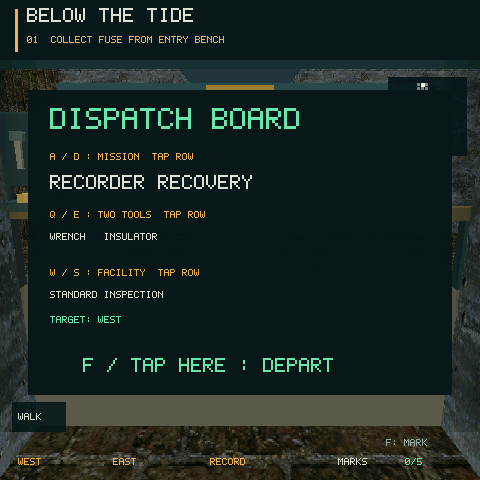
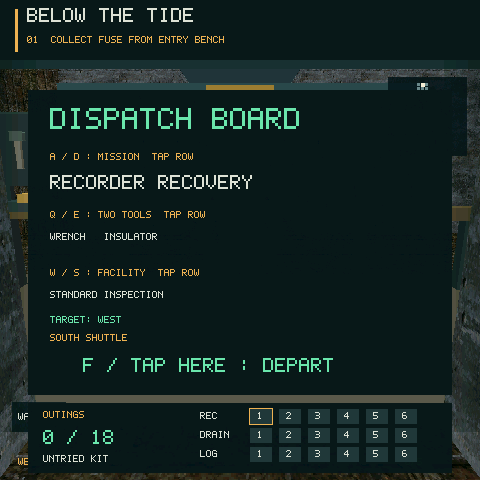
feat(sewer): track expedition progress and fair per-loadout records

Changed region(s): [[0.0312, 0.8125, 0.9688, 1.0], [0.1875, 0.6875, 0.25, 0.7188], [0.0938, 0.6875, 0.1562, 0.7188]]

diff --git a/examples/sewer_labyrinth/preview.html b/examples/sewer_labyrinth/preview.html
@@ -12,6 +12,7 @@ button:hover,button:focus-visible{border-color:#edbd64}#screen{display:block;wid
 <main><header><h1>潮线以下</h1><p>选择出勤目标和两件工具，探索泵站，完成工作后从北侧竖井撤离。</p></header>
 <div class="tools" id="dispatch"><button id="mission">更换任务</button><button id="kit">更换工具组合</button><button id="site">更换设施配置</button><button id="depart">出发</button></div>
 <p id="dispatchInfo"></p>
+<div id="outings" aria-label="本次会话出勤进度"></div>
 <p>新区域：02 号泵房。启动排水后，沿西侧黄色地面标线寻找退水露出的检修口；按住 Shift，或开启触屏 SNEAK，蹲身穿过。它通向日志凹室，也能绕过报警后的中央闸门。</p>
 <div class="tools"><button id="lure">投放诱饵（Space）</button><button id="journal">巡检笔记（J）</button></div>
 <section id="notebook" hidden style="white-space:pre-line;padding:14px;background:#1a3032;border-left:3px solid #e7bb69"></section>
@@ -81,7 +82,7 @@ function objective(m){
   if(m.phase==='playing'&&m.cell_x===6&&m.cell_z>=10&&m.cell_z<=11)
     return m.duct_open?'黄色标线通往低矮检修口。按住 Shift / 开启 SNEAK，穿过后向西寻找日志；洞内松键仍会保持蹲姿。':'前方检修口被水淹没。先启动中央泵，观察水位下降后露出的入口。';
   if(m.phase==='briefing')return '任务板：A/D 选任务，Q/E 选两件工具，W/S 换设施配置，F 出发。也可点击上方按钮。';
-  if(m.phase==='won')return '出勤完成！按 F 进入下一次任务板。本次会话保留完成次数、最快时间与探索徽章。';
+  if(m.phase==='won')return `出勤完成，用时 ${Math.floor(m.elapsed/30)} 秒。${m.new_best?'这是相同任务、设施、工具组合的新纪录！':''}按 F 接下一项出勤。`;
   if(m.ready)return '目标已完成，返回北侧入口竖井撤离；可继续寻找额外日志。';
   if(m.mission===2&&m.phase!=='lost')return !m.chart?'调查任务：先阅读西侧检修图，再前往深处寻找日志。':`调查任务：前往南侧${m.target_side?'东':'西'}凹室，按 F 读取日志。`;
   if(m.mission===1&&m.pumping&&m.water<=.02&&m.phase!=='lost')return `抢修任务：打开${m.target_side?'东':'西'}分流阀后返回入口。`;
@@ -117,7 +118,9 @@ async function tick(){
     const kits=['扳手＋绝缘工具','扳手＋诱饵','扳手＋电池','绝缘工具＋诱饵','绝缘工具＋电池','诱饵＋电池'];
     const sites=['标准巡检','西环关闭／西侧漏电','东环关闭／东侧漏电','西侧漏电','西环关闭／东侧漏电','东环关闭／西侧漏电'];
     const patrols=['南廊往返','内环巡检','停驻扫描'];
-    $('dispatchInfo').textContent=`${missions[meta.mission]} · ${kits[meta.kit]} · ${sites[meta.site]} · ${patrols[meta.patrol_mode]} · 目标${meta.target_side?'东':'西'}侧 ｜ 本任务完成 ${meta.completed} 次 · 最快 ${meta.best_ticks?Math.round(meta.best_ticks/30)+'秒':'—'} · 徽章：${meta.badges&2?'无警觉 ':''}${meta.badges&4?'额外日志':''}`;
+    $('dispatchInfo').textContent=`${missions[meta.mission]} · ${kits[meta.kit]} · ${sites[meta.site]} · ${patrols[meta.patrol_mode]} · 目标${meta.target_side?'东':'西'}侧 ｜ 当前组合完成 ${meta.run_wins} 次 · 最快 ${meta.best_ticks?Math.floor(meta.best_ticks/30)+'秒':'—'} · 徽章：${meta.badges&2?'无警觉 ':''}${meta.badges&4?'额外日志 ':''}${meta.badges&8?'检修近路':''}`;
+    const progress=missions.map((name,row)=>name+'：'+sites.map((_,site)=>(meta.outing_mask&(1<<(row*6+site)))?'●':'○').join(' '));
+    $('outings').textContent='出勤册 · 每行对应设施 1—6 · '+progress.join(' ｜ ');
     $('metrics').textContent=`Host 光栅：${meta.host_render_ms.toFixed(2)} ms（不是设备 FPS）\n几何面：${meta.faces} / 丢弃：${meta.faces_dropped}\n警戒：${Math.round(meta.alert*100)}% · 慢走：${meta.sneaking?'是':'否'}\n检查点：${meta.checkpoint?'已保存':'未到达'}`;
   }catch(error){$('error').textContent='连接暂时中断，将自动重试。'+error.message}finally{busy=false}
 }

diff --git a/examples/sewer_labyrinth/main/game_module.c b/examples/sewer_labyrinth/main/game_module.c
@@ -78,9 +78,14 @@ typedef struct {
     bool passage_used;
     bool journal,salvaged;
     uint8_t knowledge;
+    uint8_t completed_sites[SL_MISSIONS],personal_badges,run_badges;
+    uint16_t selected_wins;
+    uint32_t elapsed,best_ticks;
+    bool new_best;
 } sl_game_t;
 enum { SL_SILENT,SL_STEP,SL_CLICK,SL_POWER,SL_PUMP,SL_ALERT,SL_FAIL,SL_WIN,SL_CUES };
 static const char *const s_cues[SL_CUES]={"","step","click","power","pump","alert","fail","win"};
+typedef struct {uint32_t best_ticks;uint16_t wins;uint8_t badges;} sl_run_record_t;
 typedef struct {
     sl_game_t game;
     sl_game_t checkpoint;
@@ -88,8 +93,9 @@ typedef struct {
     bool left,right,forward,back,strafe_left,strafe_right,fire,fire_edge,sneak,touch_sneak,has_checkpoint;
     uint32_t consumed_sfx;
     uint16_t menu_down;
-    uint32_t completed[SL_MISSIONS],best_ticks[SL_MISSIONS];
-    uint8_t badges[SL_MISSIONS];
+    uint32_t completed[SL_MISSIONS],run_ticks;
+    uint8_t completed_sites[SL_MISSIONS];
+    sl_run_record_t records[SL_MISSIONS][SL_SITES][6];
     uint8_t learned;
 #if defined(MOSAICO_GAME_NATIVE) || defined(MOSAICO_GAME_ELF)
     Sound sounds[SL_CUES];
@@ -1452,11 +1458,15 @@ static void draw_hud(const sl_game_t *g)
         DrawText(TextFormat("%d%%",(int)(g->water*100)),34,90,12,mint);
     }
     if(g->escaped){
-        DrawRectangle(64,174,352,128,(Color){8,25,28,242});
+        DrawRectangle(64,174,352,160,(Color){8,25,28,242});
         DrawRectangle(64,174,352,3,mint);
-        DrawText("BACK ABOVE GROUND",94,207,23,mint);
-        DrawText(TextFormat("%lus / BONUS LOGS %u",(unsigned long)(g->tick/30),bonus_logs(g)),100,243,14,pale);
-        DrawText("F: NEXT DISPATCH",107,276,15,pale);
+        DrawText("BACK ABOVE GROUND",94,195,22,mint);
+        DrawText(TextFormat("%lus / BONUS LOGS %u",(unsigned long)(g->elapsed/30),bonus_logs(g)),100,230,14,pale);
+        DrawText(g->new_best?"PERSONAL BEST - THIS MISSION / SITE / KIT":"DISPATCH COMPLETE",82,254,10,amber);
+        DrawText(g->run_badges&2?"UNDETECTED": "CLEARED",95,274,11,mint);
+        if(g->run_badges&4)DrawText("EXTRA LOG",223,274,11,mint);
+        if(g->run_badges&8)DrawText("DUCT",334,274,11,mint);
+        DrawText("F: NEXT DISPATCH",107,307,15,pale);
     }
     if(g->failed){
         DrawRectangle(50,224,380,104,(Color){8,25,28,248});
@@ -1478,6 +1488,22 @@ static void draw_hud(const sl_game_t *g)
         DrawText(site_config(g)->target_side?"TARGET: EAST":"TARGET: WEST",50,316,12,mint);
         DrawText(s_patrol_names[site_config(g)->patrol_mode],50,334,11,amber);
         DrawText("F / TAP HERE : DEPART",83,358,19,mint);
+        DrawRectangle(28,403,424,70,(Color){8,24,28,250});
+        unsigned clears=0;
+        static const char *const labels[]={"REC","DRAIN","LOG"};
+        for(int row=0;row<SL_MISSIONS;++row){
+            DrawText(labels[row],200,412+row*19,10,pale);
+            for(unsigned site=0;site<SL_SITES;++site){
+                bool done=(g->completed_sites[row]&(1u<<site))!=0;
+                if(done)++clears;
+                if(row==g->mission&&site==g->site)DrawRectangle(249+site*29,408+row*19,24,17,amber);
+                DrawRectangle(250+site*29,409+row*19,22,15,done?(Color){45,113,90,255}:(Color){33,56,59,255});
+                DrawText(TextFormat("%u",site+1),257+site*29,412+row*19,9,done?mint:pale);
+            }
+        }
+        DrawText("OUTINGS",43,411,12,amber);
+        DrawText(TextFormat("%u / 18",clears),43,430,19,mint);
+        DrawText(g->best_ticks?TextFormat("KIT BEST %lus",(unsigned long)(g->best_ticks/30)):"UNTRIED KIT",43,455,10,pale);
     }
     if(g->journal){
         static const char *const titles[]={"WEST SERVICE CHART","WEST LOG: FLUSH BYPASS","EAST LOG: CRAWLER SERVICE","FIELD SKETCH: LOW DUCT","SWITCH ROOM: BACKUP RELAY"};
@@ -1543,6 +1569,7 @@ static void clear_input(sl_module_t *s)
 static void retry_checkpoint(sl_module_t *s)
 {
     stop_audio(s);
+    bool held=s->fire;int track=s->sneak_id>=0?s->sneak_id:s->look_id;
     uint32_t sequence=s->game.sfx_seq;
     bool detected=s->game.detected||s->game.failed;
     if(s->has_checkpoint)s->game=s->checkpoint;
@@ -1550,6 +1577,7 @@ static void retry_checkpoint(sl_module_t *s)
     s->game.detected|=detected;
     s->game.sfx_seq=sequence;cue(&s->game,SL_CLICK);
     clear_input(s);
+    s->fire=held;s->sneak_id=track;
 }
 
 static int initialize(void *value
@@ -1604,7 +1632,7 @@ static void dispatch_choice(sl_module_t *s,int code)
     else if(code==9)kit=(kit+1)%6;
     else if(code==2)dispatch=(dispatch+1)%SL_SITES;
     else if(code==5)dispatch=(dispatch+SL_SITES-1)%SL_SITES;
-    else if(code==6){g->briefing=false;clear_input(s);s->fire=true;return;}
+    else if(code==6){g->briefing=false;s->run_ticks=0;clear_input(s);s->fire=true;return;}
     else return;
     reset_dispatch(g,mission,dispatch,kit,true);
 }
@@ -1626,6 +1654,7 @@ static void input(void *value,const mosaico_host_input_v1_t *e)
     if(e->type==MOSAICO_HOST_INPUT_CONTROL){
         if(e->code==MOSAICO_HOST_CONTROL_RESET){
             stop_audio(s);reset_dispatch(&s->game,s->game.mission,s->game.dispatch,s->game.kit,true);clear_input(s);
+            s->run_ticks=0;
             s->has_checkpoint=false;s->consumed_sfx=0;
         }
         else if(e->code==MOSAICO_HOST_CONTROL_PAUSE){s->game.paused=true;stop_audio(s);clear_input(s);}
@@ -1664,8 +1693,11 @@ static void input(void *value,const mosaico_host_input_v1_t *e)
         }else if(s->game.journal||(!s->game.briefing&&e->x>=382&&e->y>=211&&e->y<=239)){
             toggle_journal(s);s->sneak_id=e->track_id;
         }else if(s->game.briefing){
-            dispatch_choice(s,e->y<205?1:e->y<263?9:e->y<340?2:6);
+            if(e->x>=28&&e->x<=452&&e->y>=145&&e->y<=395)
+                dispatch_choice(s,e->y<205?1:e->y<263?9:e->y<340?2:6);
             s->sneak_id=e->track_id;
+        }else if((s->game.escaped||s->game.failed)&&e->x>=50&&e->x<=430&&e->y>=224&&e->y<=334){
+            s->fire_edge=true;s->sneak_id=e->track_id;
         }else if(e->x>=382&&e->y>=166&&e->y<=196){
             s->sneak_id=e->track_id;use_lure(&s->game);
         }else if(e->track_id==s->pointer_id){
@@ -1696,23 +1728,36 @@ static void update(void *value)
     s->game.sneaking=s->sneak||s->touch_sneak;
     if(s->fire_edge){
         if(s->game.escaped&&!s->game.paused){
+            bool held=s->fire;int track=s->sneak_id>=0?s->sneak_id:s->look_id;
             stop_audio(s);reset_dispatch(&s->game,(s->game.mission+1)%SL_MISSIONS,
-                                        s->game.dispatch+1,s->game.kit,true);
-            s->has_checkpoint=false;clear_input(s);
+                                        s->game.dispatch+(s->game.mission+1==SL_MISSIONS),s->game.kit,true);
+            s->has_checkpoint=false;s->run_ticks=0;clear_input(s);
+            s->fire=held;s->sneak_id=track;if(held)s->menu_down|=1u<<6;
         }else if(s->game.failed&&!s->game.paused)retry_checkpoint(s);
         else interact(&s->game);
         s->fire_edge=false;
     }
     bool won=s->game.escaped;
+    if(!s->game.briefing&&!s->game.journal&&!s->game.paused&&!s->game.escaped&&!s->game.failed&&s->run_ticks<UINT32_MAX)
+        ++s->run_ticks;
     update_game(&s->game);
+    s->game.elapsed=s->run_ticks;
     s->learned|=(s->game.chart?1:0)|((s->game.logs&3)<<1)|
                 (s->game.passage_used?8:0)|(s->game.relay?16:0);
     s->game.knowledge=s->learned;
     if(!won&&s->game.escaped){
         unsigned m=s->game.mission;++s->completed[m];
-        if(!s->best_ticks[m]||s->game.tick<s->best_ticks[m])s->best_ticks[m]=s->game.tick;
-        s->badges[m]|=1|(!s->game.detected?2:0)|(bonus_logs(&s->game)>0?4:0);
+        sl_run_record_t *record=&s->records[m][s->game.site][s->game.kit];
+        if(record->wins<UINT16_MAX)++record->wins;
+        s->game.new_best=!record->best_ticks||s->run_ticks<record->best_ticks;
+        if(s->game.new_best)record->best_ticks=s->run_ticks;
+        s->game.run_badges=1|(!s->game.detected?2:0)|(bonus_logs(&s->game)>0?4:0)|(s->game.passage_used?8:0);
+        record->badges|=s->game.run_badges;
+        s->completed_sites[m]|=1u<<s->game.site;
     }
+    const sl_run_record_t *record=&s->records[s->game.mission][s->game.site][s->game.kit];
+    s->game.best_ticks=record->best_ticks;s->game.selected_wins=record->wins;s->game.personal_badges=record->badges;
+    memcpy(s->game.completed_sites,s->completed_sites,sizeof(s->completed_sites));
     if(s->game.pumping&&!s->has_checkpoint){s->checkpoint=s->game;s->has_checkpoint=true;}
     consume_audio(s);
 }
@@ -1744,6 +1789,7 @@ static int state_json(const void *value,char *out,size_t cap)
         "\"duct_open\":%s,\"duct_used\":%s,\"crouch\":%.2f,"
         "\"journal\":%s,\"knowledge\":%u,\"salvaged\":%s,"
         "\"battery\":%s,\"lure\":%s,\"ready\":%s,\"completed\":%lu,\"best_ticks\":%lu,\"badges\":%u,"
+        "\"elapsed\":%lu,\"run_wins\":%u,\"run_badges\":%u,\"new_best\":%s,\"outing_mask\":%u,"
         "\"faces\":%d,\"faces_dropped\":%d,\"state_hash\":\"%08lx\"}",
         g->briefing?"briefing":g->escaped?"won":g->failed?"lost":"playing",g->x,g->z,tile_at(g->x),tile_at(g->z),
         sqrtf((g->cam_x-g->x)*(g->cam_x-g->x)+(g->cam_z-g->z)*(g->cam_z-g->z)),
@@ -1763,8 +1809,9 @@ static int state_json(const void *value,char *out,size_t cap)
         g->journal?"true":"false",g->knowledge,g->salvaged?"true":"false",
         g->battery_charge?"true":"false",g->lure_charge?"true":"false",mission_ready(g)?"true":"false",
         (unsigned long)((const sl_module_t*)value)->completed[g->mission],
-        (unsigned long)((const sl_module_t*)value)->best_ticks[g->mission],
-        ((const sl_module_t*)value)->badges[g->mission],
+        (unsigned long)g->best_ticks,g->personal_badges,
+        (unsigned long)g->elapsed,g->selected_wins,g->run_badges,g->new_best?"true":"false",
+        (unsigned)(g->completed_sites[0]|(g->completed_sites[1]<<6)|(g->completed_sites[2]<<12)),
         s_face_count,s_faces_dropped,(unsigned long)state_hash(value));
 }
 #endif

diff --git a/tests/test_sewer_model.c b/tests/test_sewer_model.c
@@ -148,9 +148,9 @@ static void check_dispatches(void)
     e.code=6;input(&s,&e);assert(!s.game.briefing);
     s.game.pumping=true;s.game.water=0;s.game.west=true;update(&s);
     assert(s.game.escaped&&s.completed[1]==1);update(&s);assert(s.completed[1]==1);
-    s.fire_edge=true;update(&s);assert(s.game.briefing&&s.game.mission==2&&s.game.site==1);
+    s.fire_edge=true;update(&s);assert(s.game.briefing&&s.game.mission==2&&s.game.site==0);
     s.game.briefing=false;s.game.failed=true;s.fire_edge=true;update(&s);
-    assert(s.game.mission==2&&s.game.site==1&&!s.game.failed&&s.game.detected);
+    assert(s.game.mission==2&&s.game.site==0&&!s.game.failed&&s.game.detected);
     puts("108 mission/site/kit routes, tool effects and dispatch lifecycle: ok");
 }
 static void check_service_duct(void)
@@ -246,6 +246,51 @@ static void check_patrol_variants(void)
     }
     puts("patrol variants: full circuits, bounds, continuity, scan holds, lure and cover ok");
 }
+static void check_expedition_records(void)
+{
+    sl_module_t s={0};reset_dispatch(&s.game,0,0,0,false);clear_input(&s);
+    for(unsigned round=0;round<18;++round){
+        unsigned mission=round%3,site=round/3;
+        assert(s.game.mission==mission&&s.game.site==site);
+        s.game.record=s.game.chart=s.game.west=s.game.east=s.game.pumping=true;
+        s.game.logs=3;s.game.water=0;s.run_ticks=60+round;
+        update(&s);assert(s.game.escaped&&s.game.new_best);
+        assert(s.records[mission][site][0].wins==1);
+        assert(s.records[mission][site][0].best_ticks==61+round);
+        assert(s.game.best_ticks==61+round);
+        update(&s);assert(s.records[mission][site][0].wins==1);
+        s.fire_edge=true;update(&s);assert(s.game.briefing&&s.run_ticks==0);
+        dispatch_choice(&s,6);
+    }
+    assert(s.game.mission==0&&s.game.site==0);
+    for(int m=0;m<3;++m)assert(s.completed_sites[m]==63);
+    reset_dispatch(&s.game,0,0,1,false);s.game.record=true;s.run_ticks=40;update(&s);
+    assert(s.records[0][0][1].best_ticks==41&&s.records[0][0][0].best_ticks==61);
+    assert(s.game.best_ticks==41&&s.game.selected_wins==1);
+    sl_module_t clock={0};reset_dispatch(&clock.game,0,0,0,false);clear_input(&clock);
+    for(int i=0;i<10;++i)update(&clock);
+    assert(clock.game.elapsed==10);
+    clock.game.paused=true;update(&clock);assert(clock.run_ticks==10);
+    clock.game.paused=false;clock.game.journal=true;update(&clock);assert(clock.run_ticks==10);
+    clock.game.journal=false;clock.checkpoint=clock.game;clock.has_checkpoint=true;
+    clock.run_ticks=123;clock.game.failed=true;clock.fire_edge=true;update(&clock);
+    assert(clock.game.elapsed==124&&clock.game.tick==11);
+    clock.game.record=true;update(&clock);assert(clock.game.best_ticks==125);
+    mosaico_host_input_v1_t reset={.type=MOSAICO_HOST_INPUT_CONTROL,.code=MOSAICO_HOST_CONTROL_RESET};
+    input(&clock,&reset);update(&clock);assert(clock.run_ticks==0&&clock.game.best_ticks==125);
+    mosaico_host_input_v1_t touch={.type=MOSAICO_HOST_INPUT_POINTER,.track_id=5,.pressed=true,.x=300,.y=430};
+    input(&clock,&touch);assert(clock.game.briefing); /* Progress board is not a departure button. */
+    touch.pressed=false;input(&clock,&touch);
+    clock.game.briefing=false;clock.game.escaped=true;
+    touch.y=310;touch.pressed=true;input(&clock,&touch);update(&clock);
+    unsigned site=clock.game.site;input(&clock,&touch);assert(clock.game.briefing&&clock.game.site==site);
+    touch.pressed=false;input(&clock,&touch);
+    clock.game.briefing=false;clock.game.escaped=true;
+    mosaico_host_input_v1_t fire={.type=MOSAICO_HOST_INPUT_ACTION,.code=6,.pressed=true};
+    input(&clock,&fire);update(&clock);input(&clock,&fire);assert(clock.game.briefing);
+    fire.pressed=false;input(&clock,&fire);fire.pressed=true;input(&clock,&fire);assert(!clock.game.briefing);
+    puts("expedition records: all 18 outings, per-kit bests, retries and pause timing ok");
+}
 int main(void)
 {
     check_motion();check_scene_budget();
@@ -306,6 +351,7 @@ int main(void)
     check_service_duct();
     check_notebook_and_salvage();
     check_patrol_variants();
+    check_expedition_records();
     puts("sewer model and audio lifecycle: ok");
     return 0;
 }

diff --git a/examples/sewer_labyrinth/scenarios/render_service_duct.py b/examples/sewer_labyrinth/scenarios/render_service_duct.py
@@ -26,6 +26,8 @@ def main():
         with tempfile.TemporaryDirectory() as directory:
             runtime = GenericHostRuntime(PROJECT, Path(directory))
             try:
+                if name == "submerged-duct.json":
+                    (PROJECT / "docs/dispatch.png").write_bytes(runtime.frame())
                 for frame in range(checkpoints[name]["end"]):
                     for event in by_frame.get(frame, []):
                         runtime.action(event["code"], event["pressed"])
@@ -47,6 +49,11 @@ def main():
                             ("phase", "cell_x", "cell_z", "logs", "duct_open", "duct_used", "faces")}
                 if name == "service-duct.json" and runtime.metadata()["phase"] != "won":
                     raise RuntimeError("Survey route did not complete: " + str(runtime.metadata()))
+                if name == "service-duct.json":
+                    runtime.action(6, True)
+                    runtime.action(6, False)
+                    runtime.api.mosaico_host_game_update_v1(runtime.context)
+                    (PROJECT / "docs/outing-board.png").write_bytes(runtime.frame())
             finally:
                 runtime.close()
     print(json.dumps(summaries, indent=2))

diff --git a/tests/test_sewer_labyrinth.py b/tests/test_sewer_labyrinth.py
@@ -76,6 +76,10 @@ class SewerLabyrinthTests(unittest.TestCase):
         self.assertTrue(end["logs"] & 1)
         self.assertFalse(end["west"] or end["east"] or end["record"])
         self.assertEqual(end["completed"], 1)
+        self.assertEqual(end["run_wins"], 1)
+        self.assertEqual(end["outing_mask"], 1 << 12)
+        self.assertEqual(end["best_ticks"], end["elapsed"])
+        self.assertTrue(end["new_best"])
 
     def test_submerged_duct_blocks_even_when_crouching(self) -> None:
         route = "submerged-duct.json"
@@ -125,6 +129,7 @@ assert.equal(plays,2);
         self.assertTrue(retry["power"] and retry["pumping"])
         self.assertFalse(retry["record"] or retry["west"] or retry["east"])
         self.assertEqual((retry["cell_x"], retry["cell_z"]), (8, 6))
+        self.assertGreater(retry["elapsed"], caught["elapsed"])
 
     def test_generated_audio_matches_manifest(self) -> None:
         with tempfile.TemporaryDirectory() as directory:

diff --git a/examples/sewer_labyrinth/README.md b/examples/sewer_labyrinth/README.md
@@ -117,8 +117,14 @@ These geometry checks do not establish device FPS.
 六种固定设施配置改变漏电位置、巡逻起始相位、任务目标侧与外环闸门；最多关闭一侧外环。
 任务板会提前说明配置。布局不随机生成，这些变化用于比较路线策略。
 两个南侧凹室各有一份日志；调查任务以外的日志作为可选探索奖励。
-完成后按 `F` 进入下一次任务板；当前会话记录各任务的完成次数、最快时间，以及无警觉、
-额外日志徽章。关闭仿真后不保留记录；最快时间目前按任务统计，跨配置不作为公平排行。
+完成后按 `F` 进入下一次任务板，依次体验同一设施的三种任务，再换下一设施；
+因此连续出勤会遍历全部 18 种任务／设施组合，不再只在六种固定搭配之间循环。
+任务板的出勤册标出已完成的组合，工具可以自行更换。
+
+最快时间和徽章按“任务、设施、两件工具组合”分别保存，共 108 个小记录槽。
+结算显示本次耗时、新纪录、无警觉、额外日志和检修近路发现；不会拿不同工具或不同巡逻
+配置的成绩混在一起比较。活动计时在笔记、暂停和任务板中冻结，失败重试保留已花的时间，
+不会因为恢复检查点而把较慢的一段扣掉。关闭仿真后不保留记录。
 Reset 返回当前配置的任务板，失败重试保持所选任务和工具，恢复泵站检查点状态。
 
 `main/sewer_contracts.h` 集中定义任务、工具与设施配置，便于继续添加经过验证的变体。
